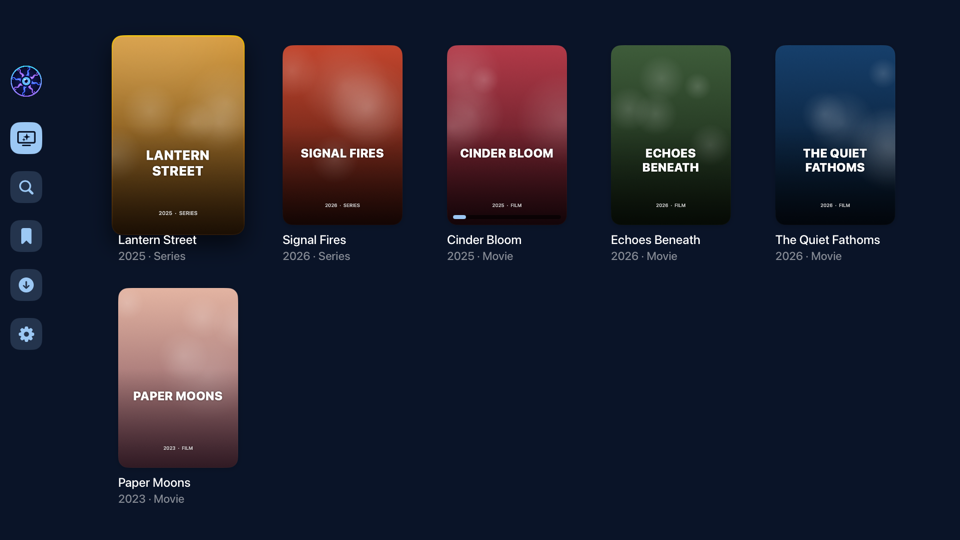
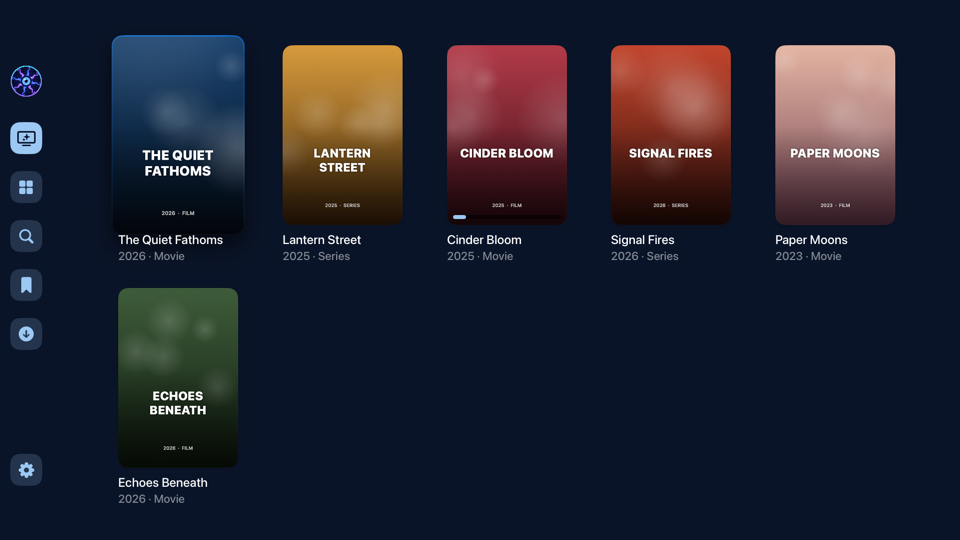
Retake the README screenshots for the new menu, Browse and seasonal rows; demo genres use real TMDB ids

diff --git a/Tools/demo-server/server.py b/Tools/demo-server/server.py
@@ -16,6 +16,11 @@ from urllib.parse import urlparse, parse_qs
 HERE = os.path.dirname(os.path.abspath(__file__))
 PORT = int(sys.argv[1]) if len(sys.argv) > 1 else 8765
 ART = sys.argv[2] if len(sys.argv) > 2 else "/tmp/oppdemo/img"
+# TMDB's own genre ids, so the genre cards get their real colours in screenshots.
+GENRE_IDS = {"Action & Adventure": 10759, "Adventure": 12, "Comedy": 35, "Crime": 80, "Drama": 18, "Fantasy": 14,
+             "Horror": 27, "Music": 10402, "Mystery": 9648, "Romance": 10749, "Sci-Fi & Fantasy": 10765,
+             "Science Fiction": 878, "Thriller": 53, "Western": 37}
+
 CATALOG = json.load(open(os.path.join(HERE, "catalog.json")))
 TITLES = {t["id"]: t for t in CATALOG["titles"]}
 USERS = {int(k): v for k, v in CATALOG["users"].items()}
@@ -388,7 +393,7 @@ class Handler(BaseHTTPRequestHandler):
         if p in ("/discover/genreslider/movie", "/discover/genreslider/tv"):
             kind = "movie" if p.endswith("movie") else "tv"
             names = sorted({g for t in CATALOG["titles"] if t["type"] == kind for g in t["genres"]})
-            return self.send_json([{"id": 100 + i, "name": n, "backdrops": []} for i, n in enumerate(names)])
+            return self.send_json([{"id": GENRE_IDS.get(n, 100 + i), "name": n, "backdrops": []} for i, n in enumerate(names)])
         if p == "/search/keyword":
             return self.send_json({"page": 1, "totalPages": 1, "totalResults": 1, "results": [{"id": 3335, "name": q.get("query", "")}]})
         if p in ("/discover/movies", "/discover/tv") and "keywords" in q:
@@ -399,8 +404,7 @@ class Handler(BaseHTTPRequestHandler):
             kind = "movie" if p.endswith("movies") else "tv"
             pool = [t for t in CATALOG["titles"] if t["type"] == kind]
             if "genre" in q:
-                names = sorted({g for t in pool for g in t["genres"]})
-                wanted = names[int(q["genre"]) - 100] if 0 <= int(q["genre"]) - 100 < len(names) else None
+                wanted = next((n for n, i in GENRE_IDS.items() if i == int(q["genre"])), None)
                 pool = [t for t in pool if wanted in t["genres"]]
             elif "studio" in q or "network" in q:
                 pool = [t for i, t in enumerate(pool) if (i + int(q.get("studio") or q.get("network"))) % 2 == 0]

diff --git a/README.md b/README.md
@@ -68,12 +68,16 @@ The menu runs down the left edge: **Discover, Browse, Search, Watchlists and Act
 
 ### Discover
 
-![Discover with Suggested for You and Recently Added rows](docs/screenshots/discover-browse.png)
+![Discover with the Suggested for You row and a Halloween Picks seasonal row](docs/screenshots/discover-seasonal.png)
 
 - **Browse** has its own item in the side menu, laid out like Discover: a row each for **Movie Genres, Series Genres, Studios and Networks**. Select a row's title to open it as a full grid, or pick a tile to see its titles. The heading on each results page changes the order (Most Popular, Newest and so on), and studios and networks appear as white logos.
+
 - **Seasonal picks** appear in the run-up to a popular holiday (Christmas, Halloween, Thanksgiving, Easter, Valentine's Day, St. Patrick's Day, Mother's Day, Memorial Day, Pride, Juneteenth, Father's Day, the Fourth of July, Summer, Labor Day and New Year's Eve): a row such as "🎃 Halloween Picks" with movies and series TMDB tags with that holiday, expandable like the others. It's hidden the rest of the year and can be switched off under **Settings → Discover → Discover Sections**.
 - **Suggested for You**, **Recently Added**, **Trending**, **Popular Movies**, **Upcoming Movies**, **Popular Series** and **Upcoming Series**. Rows page in more as you scroll, and each title expands into a full-screen grid.
 - Every section can be switched off under **Settings → Discover → Discover Sections**.
+
+
+![The Browse page: a row of genre cards tinted in Seerr's colors for movie genres, then series genres, studios and networks](docs/screenshots/browse-rows.png)
 
 ![Discover rows where several posters have thin progress bars along their bottom edges](docs/screenshots/discover-poster-progress.png)
 
